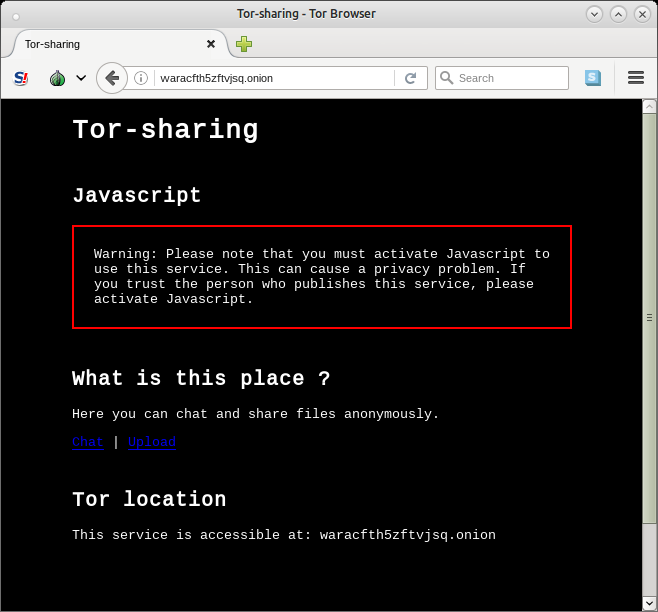
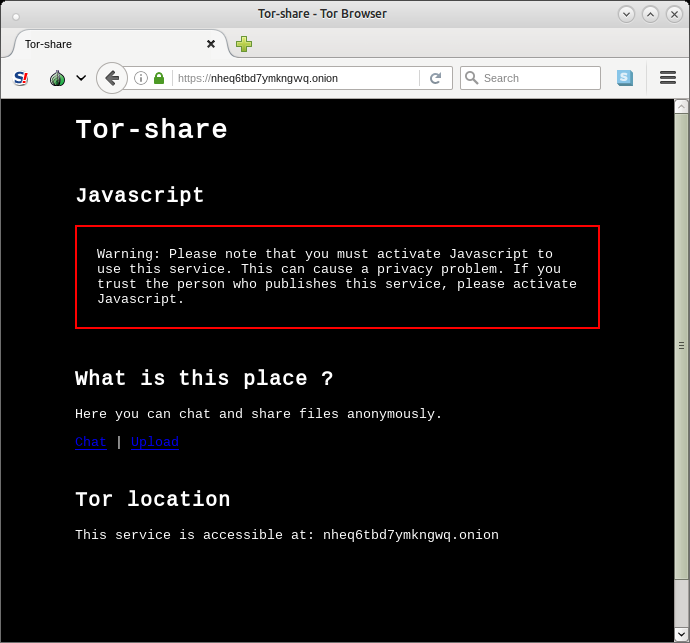
Improve README, update screenshot

diff --git a/README.md b/README.md
@@ -31,23 +31,9 @@ Launch Tor-share on Ubuntu 16.04:
     # Then launch a container and expose Tor port
     $ docker run -d -p 9050:9050 tor-share
     
-    /!\ Warning /!\ Never, never, never expose port 80 to outside. 
-    No one should be able to access container without using TOR. 
+    /!\ Warning /!\ Never, never, never expose other ports to outside. 
+    No one should be able to access your container without using TOR. 
 
-## Authentication
-
-Visits are restricted with Lighttpd basic authentication. Default credentials are:
-
-    anonymous-tux:password
-    anonymous-tux2:password2
-
-Before building you can add users or change passwords:
-    
-    $ vim etc/lighttpd/lighttpd-password
-
-## Before use Tor-share
-
-Change all passwords !
 
 ## Get URL (location) of hidden service
     
@@ -65,7 +51,28 @@ Change all passwords !
     $ curl -k -u anonymous-tux:password https://172.17.0.2/hostname 
     
         7b436d6e7ipz4kbo.onion
+
+    /!\ All content is accessible throught HTTPS: visitors have to specify https:// and
+    to add a security exception.
+
+ 
+## Authentication
+
+Visits are restricted with Lighttpd basic authentication. Default credentials are:
+
+    anonymous-tux:password
+    anonymous-tux2:password2
+
+Before building you can add users or change passwords:
     
+    $ vim etc/lighttpd/lighttpd-password
+
+
+## Before use Tor-share
+
+Change all passwords !
+
+   
 ## SSH connection for file management
 
     # When your container is set up, you can connect it in SSH with default credentials (anonymous-tux:password)
@@ -82,6 +89,7 @@ Change all passwords !
     $ ls .
     $ ls upload/
     $ ls chat/
+
         
 ## Publish a web site
 
